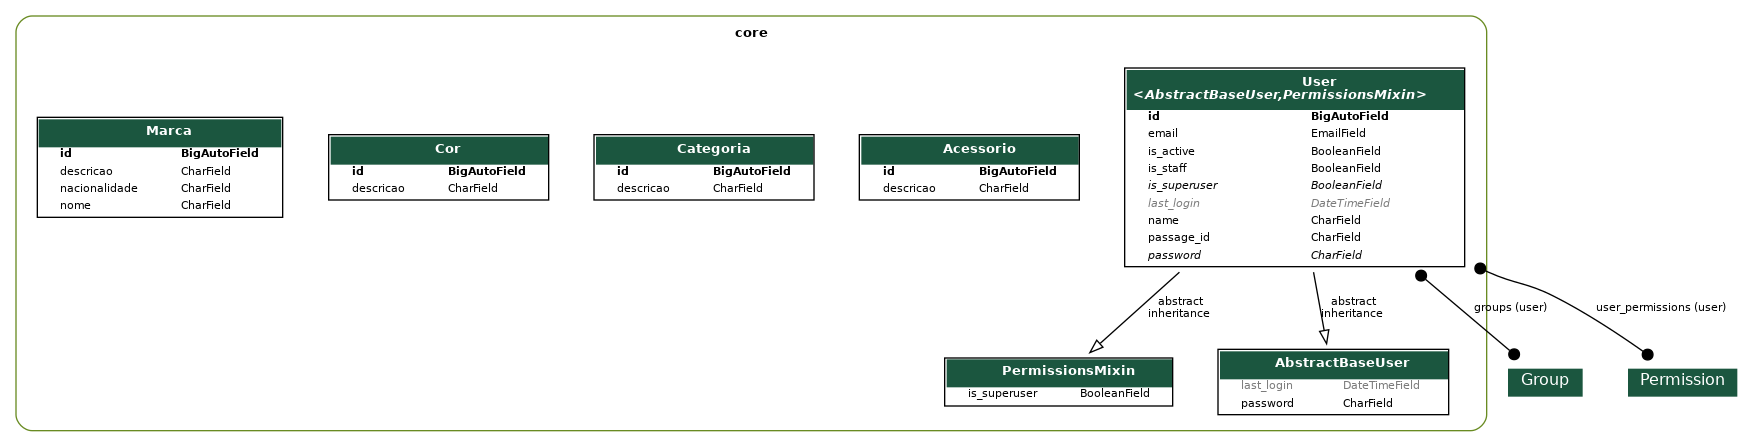
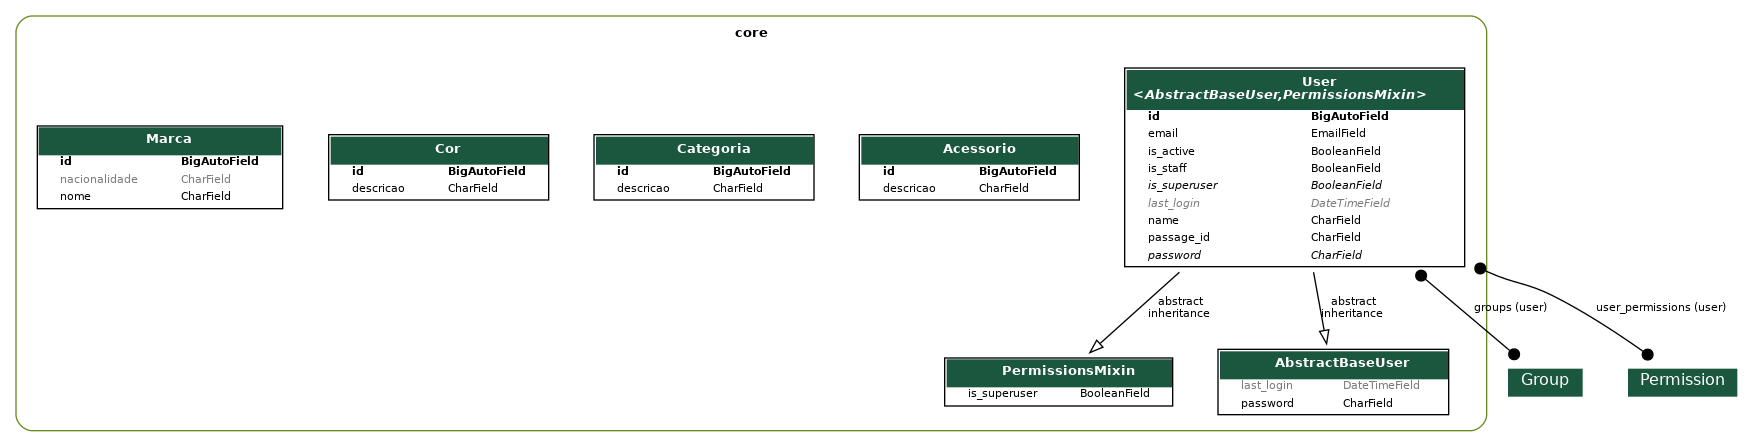
correão de erro

Changed region(s): [[0.0, 0.2617, 0.1848, 0.4944]]

diff --git a/core/migrations/0006_alter_marca_options_remove_marca_descricao_and_more.py b/core/migrations/0006_alter_marca_options_remove_marca_descricao_and_more.py
@@ -1,0 +1,26 @@
+# Generated by Django 5.0.6 on 2024-07-26 19:58
+
+from django.db import migrations, models
+
+
+class Migration(migrations.Migration):
+
+    dependencies = [
+        ("core", "0005_marca"),
+    ]
+
+    operations = [
+        migrations.AlterModelOptions(
+            name="marca",
+            options={"verbose_name": "Marca", "verbose_name_plural": "Marcas"},
+        ),
+        migrations.RemoveField(
+            model_name="marca",
+            name="descricao",
+        ),
+        migrations.AlterField(
+            model_name="marca",
+            name="nacionalidade",
+            field=models.CharField(blank=True, max_length=50, null=True),
+        ),
+    ]

diff --git a/core/models/marca.py b/core/models/marca.py
@@ -3,7 +3,7 @@ from django.db import models
 
 class Marca(models.Model):
     nome = models.CharField(max_length=50)
-    nacionalidade = models.CharField(max_length=50, null=True)
+    nacionalidade = models.CharField(max_length=50, null=True, blank=True)
 
     def __str__(self):
         return f"{self.nome.upper()} ({self.id})"
